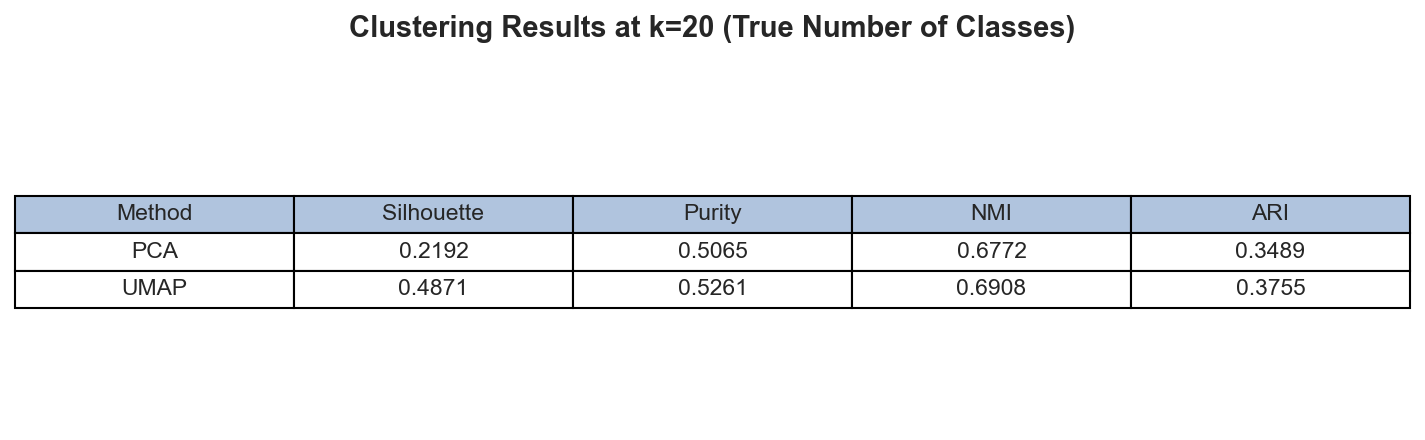
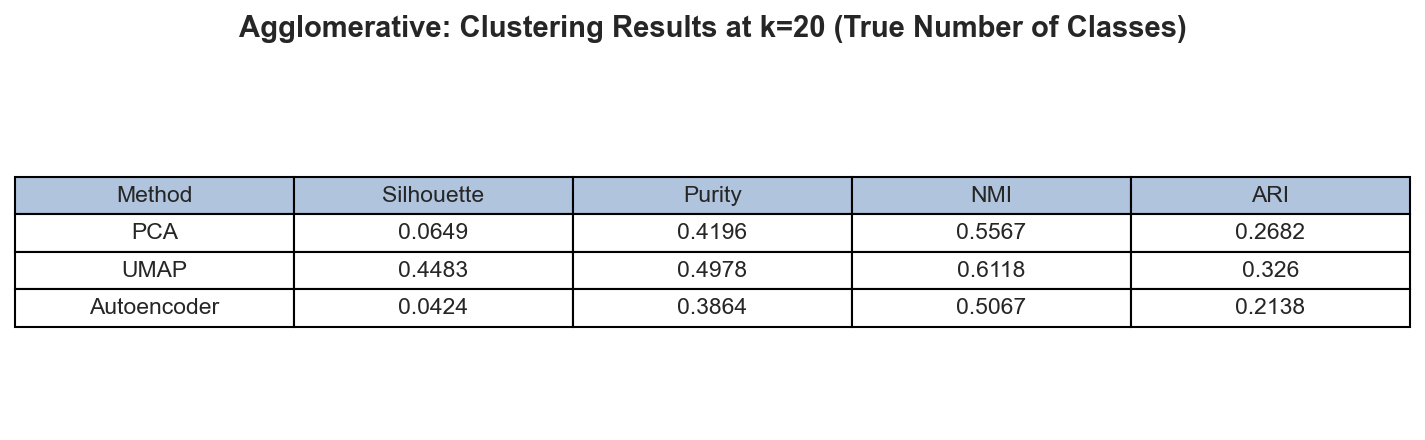
Refactor agglomerative clustering script to include Autoencoder comparison and update documentation; add new output plots and data summaries.

diff --git a/clustering/agglomerative/main.py b/clustering/agglomerative/main.py
@@ -1,9 +1,9 @@
 """
-Agglomerative Clustering Comparison: PCA vs UMAP
-=================================================
+Agglomerative Clustering Comparison: PCA vs UMAP vs Autoencoder
+================================================================
 
 This script performs agglomerative hierarchical clustering on the UMIST facial 
-recognition dataset using two unsupervised dimensionality reduction methods:
+recognition dataset using three unsupervised dimensionality reduction methods:
 
 1. PCA (Principal Component Analysis)
    - Linear dimensionality reduction
@@ -15,7 +15,12 @@ recognition dataset using two unsupervised dimensionality reduction methods:
    - Preserves local and global structure
    - Better at preserving cluster structure
 
-Both methods are fully UNSUPERVISED, making this a valid unsupervised learning
+3. Autoencoder (Convolutional)
+   - Non-linear dimensionality reduction
+   - Learns hierarchical features
+   - Can capture complex patterns
+
+All methods are fully UNSUPERVISED, making this a valid unsupervised learning
 pipeline for clustering evaluation.
 
 Evaluation Metrics:
@@ -37,14 +42,14 @@ import pandas as pd
 
 from sklearn.cluster import AgglomerativeClustering
 
-from data_preprocessing.pipeline import load_preprocessed_data_with_augmentation
-
-# Add parent directories to path
+# Add parent directories to path BEFORE imports
 sys.path.append(os.path.dirname(os.path.dirname(os.path.dirname(os.path.abspath(__file__)))))
 sys.path.insert(0, os.path.join(os.path.dirname(__file__), '..'))
 
+from data_preprocessing.pipeline import load_preprocessed_data_with_augmentation
 from dimensionality_reduction.pca import determine_pca_components, fit_and_transform_pca
 from dimensionality_reduction.umap_reduction import fit_and_transform_umap
+from dimensionality_reduction.autoencoding import train_autoencoder, reconstruct_images
 
 from shared import (
     evaluate_clustering, 
@@ -181,7 +186,7 @@ def main():
     data_path = os.path.join(project_root, "umist_cropped.mat")
     
     print("=" * 70)
-    print("AGGLOMERATIVE CLUSTERING: PCA vs UMAP (Unsupervised Comparison)")
+    print("AGGLOMERATIVE CLUSTERING: PCA vs UMAP vs Autoencoder (Unsupervised Comparison)")
     print("=" * 70)
     
     print("\nLoading preprocessed data...")
@@ -234,10 +239,41 @@ def main():
     X_combined_umap = np.vstack([X_train_umap, X_val_umap])
     
     # =========================================================================
-    # Step 3: Evaluate Dimensionality Reduction Quality
+    # Step 3: Autoencoder Dimensionality Reduction
     # =========================================================================
     print("\n" + "=" * 70)
-    print("STEP 3: Dimensionality Reduction Quality Evaluation")
+    print("STEP 3: Autoencoder Dimensionality Reduction")
+    print("=" * 70)
+    
+    # Use similar number of components as PCA for fair comparison
+    n_ae_components = n_pca_components
+    
+    # Train autoencoder
+    autoencoder, encoder, history = train_autoencoder(
+        X_train, X_val,
+        latent_dim=n_ae_components,
+        epochs=50,
+        batch_size=32
+    )
+    
+    # Get encoded representations
+    X_train_reshaped = X_train.reshape(-1, 112, 92, 1)
+    X_val_reshaped = X_val.reshape(-1, 112, 92, 1)
+    X_test_reshaped = X_test.reshape(-1, 112, 92, 1)
+    
+    X_train_ae = encoder.predict(X_train_reshaped, verbose=0)
+    X_val_ae = encoder.predict(X_val_reshaped, verbose=0)
+    X_test_ae = encoder.predict(X_test_reshaped, verbose=0)
+    
+    X_combined_ae = np.vstack([X_train_ae, X_val_ae])
+    
+    print(f"Autoencoder encoded shape: {X_combined_ae.shape}")
+    
+    # =========================================================================
+    # Step 4: Evaluate Dimensionality Reduction Quality
+    # =========================================================================
+    print("\n" + "=" * 70)
+    print("STEP 4: Dimensionality Reduction Quality Evaluation")
     print("=" * 70)
     
     # Evaluate PCA
@@ -260,21 +296,45 @@ def main():
     )
     print_dimred_metrics(umap_dimred_metrics)
     
+    # Evaluate Autoencoder
+    print("\nEvaluating Autoencoder...")
+    # Compute reconstruction error for autoencoder
+    X_combined_reshaped = X_combined.reshape(-1, 112, 92, 1)
+    X_combined_ae_recon = autoencoder.predict(X_combined_reshaped, verbose=0).reshape(X_combined.shape[0], -1)
+    ae_recon_error = np.mean((X_combined - X_combined_ae_recon) ** 2)
+    ae_relative_recon_error = ae_recon_error / np.var(X_combined)
+    
+    ae_dimred_metrics = evaluate_dimensionality_reduction(
+        X_combined, X_combined_ae,
+        n_neighbors=10,
+        pca_model=None,  # Autoencoder uses its own reconstruction
+        method_name="Autoencoder"
+    )
+    # Add reconstruction metrics manually
+    ae_dimred_metrics['reconstruction_error'] = ae_recon_error
+    ae_dimred_metrics['relative_recon_error'] = ae_relative_recon_error
+    
+    # Print autoencoder metrics
+    print(f"  Trustworthiness: {ae_dimred_metrics['trustworthiness']:.4f}")
+    print(f"  Reconstruction Error: {ae_recon_error:.4f}")
+    print(f"  Relative Recon Error: {ae_relative_recon_error*100:.2f}%")
+    print(f"  N Components: {ae_dimred_metrics['n_components']}")
+    
     # Summary comparison
     print("\n" + "-" * 70)
     print("Dimensionality Reduction Comparison:")
     print("-" * 70)
-    print(f"{'Metric':<25} {'PCA':<15} {'UMAP':<15}")
-    print("-" * 55)
-    print(f"{'Trustworthiness':<25} {pca_dimred_metrics['trustworthiness']:<15.4f} {umap_dimred_metrics['trustworthiness']:<15.4f}")
-    print(f"{'Reconstruction Error':<25} {pca_dimred_metrics['reconstruction_error']:<15.4f} {'N/A':<15}")
-    print(f"{'Relative Recon Error':<25} {pca_dimred_metrics['relative_recon_error']*100:<14.2f}% {'N/A':<15}")
+    print(f"{'Metric':<25} {'PCA':<15} {'UMAP':<15} {'Autoencoder':<15}")
+    print("-" * 70)
+    print(f"{'Trustworthiness':<25} {pca_dimred_metrics['trustworthiness']:<15.4f} {umap_dimred_metrics['trustworthiness']:<15.4f} {ae_dimred_metrics['trustworthiness']:<15.4f}")
+    print(f"{'Reconstruction Error':<25} {pca_dimred_metrics['reconstruction_error']:<15.4f} {'N/A':<15} {ae_dimred_metrics['reconstruction_error']:<15.4f}")
+    print(f"{'Relative Recon Error':<25} {pca_dimred_metrics['relative_recon_error']*100:<14.2f}% {'N/A':<15} {ae_dimred_metrics['relative_recon_error']*100:<14.2f}%")
     
     # =========================================================================
-    # Step 4: Agglomerative Clustering
+    # Step 5: Agglomerative Clustering
     # =========================================================================
     print("\n" + "=" * 70)
-    print("STEP 4: Agglomerative Clustering")
+    print("STEP 5: Agglomerative Clustering")
     print("=" * 70)
     
     # Define k values to test
@@ -297,23 +357,30 @@ def main():
         linkage_method="ward", method_name="UMAP Features"
     )
     
+    # Clustering on Autoencoder features
+    results_ae = run_agglomerative_clustering(
+        X_combined_ae, y_combined, k_values,
+        linkage_method="ward", method_name="Autoencoder Features"
+    )
+    
     # Store results
     results_dict = {
         "PCA": results_pca,
         "UMAP": results_umap,
+        "Autoencoder": results_ae,
     }
     
     # =========================================================================
-    # Step 5: Visualizations
+    # Step 6: Visualizations
     # =========================================================================
     print("\n" + "=" * 70)
-    print("STEP 5: Visualizations")
+    print("STEP 6: Visualizations")
     print("=" * 70)
     
     # Dimensionality reduction comparison
     print("\nGenerating dimensionality reduction comparison plot...")
     plot_dimred_comparison(
-        pca_dimred_metrics, umap_dimred_metrics,
+        pca_dimred_metrics, umap_dimred_metrics, ae_dimred_metrics,
         save_path=os.path.join(output_dir, "dimred_comparison.png"),
         algorithm_name="Agglomerative"
     )
@@ -336,6 +403,15 @@ def main():
         linkage_method='ward',
         distance_metric='euclidean',
         save_path=os.path.join(output_dir, "dendrogram_umap.png")
+    )
+    
+    plot_dendrogram(
+        X_combined_ae, y_combined,
+        n_clusters=n_classes,
+        title="Dendrogram - Autoencoder Features",
+        linkage_method='ward',
+        distance_metric='euclidean',
+        save_path=os.path.join(output_dir, "dendrogram_autoencoder.png")
     )
     
     # Metric comparison
@@ -366,6 +442,14 @@ def main():
     agg_umap = AgglomerativeClustering(n_clusters=n_classes, linkage="ward")
     labels_umap = agg_umap.fit_predict(X_combined_umap)
     
+    agg_ae = AgglomerativeClustering(n_clusters=n_classes, linkage="ward")
+    labels_ae = agg_ae.fit_predict(X_combined_ae)
+    
+    # For autoencoder 2D, use UMAP on the encoded features
+    from sklearn.decomposition import PCA as skPCA
+    pca_2d_ae = skPCA(n_components=2)
+    X_combined_ae_2d = pca_2d_ae.fit_transform(X_combined_ae)
+    
     plot_clustering_2d(
         X_combined_pca[:, :2], labels_pca, y_combined,
         title=f"Clustering - PCA Features (k={n_classes})",
@@ -380,6 +464,13 @@ def main():
         algorithm_name="Agglomerative"
     )
     
+    plot_clustering_2d(
+        X_combined_ae_2d, labels_ae, y_combined,
+        title=f"Clustering - Autoencoder Features (k={n_classes})",
+        save_path=os.path.join(output_dir, "clustering_autoencoder_2d.png"),
+        algorithm_name="Agglomerative"
+    )
+    
     # Summary table
     print("\nGenerating summary table...")
     summary_df = plot_summary_table(
@@ -389,14 +480,15 @@ def main():
     )
     
     # =========================================================================
-    # Step 6: Summary
+    # Step 7: Summary
     # =========================================================================
     print_summary(results_dict, n_classes)
     
     # Save results to CSV
     results_pca["method"] = "PCA"
     results_umap["method"] = "UMAP"
-    all_results = pd.concat([results_pca, results_umap], ignore_index=True)
+    results_ae["method"] = "Autoencoder"
+    all_results = pd.concat([results_pca, results_umap, results_ae], ignore_index=True)
     results_path = os.path.join(output_dir, "clustering_results.csv")
     all_results.to_csv(results_path, index=False)
     print(f"\n✓ Results saved to {results_path}")

diff --git a/clustering/shared/plots.py b/clustering/shared/plots.py
@@ -190,7 +190,7 @@ def plot_summary_table(results_dict, n_classes, save_path=None, algorithm_name="
     return summary_df
 
 
-def plot_dimred_comparison(pca_metrics, umap_metrics, save_path=None, algorithm_name=""):
+def plot_dimred_comparison(pca_metrics, umap_metrics, ae_metrics=None, save_path=None, algorithm_name=""):
     """
     Plot comparison of dimensionality reduction quality metrics.
     
@@ -200,23 +200,30 @@ def plot_dimred_comparison(pca_metrics, umap_metrics, save_path=None, algorithm_
         Metrics from PCA dimensionality reduction
     umap_metrics : dict
         Metrics from UMAP dimensionality reduction
+    ae_metrics : dict, optional
+        Metrics from Autoencoder dimensionality reduction
     save_path : str, optional
         Path to save the figure
     algorithm_name : str, optional
         Name of clustering algorithm (e.g., "K-Means", "Agglomerative")
     """
-    fig, axes = plt.subplots(1, 2, figsize=(12, 5))
+    fig, axes = plt.subplots(1, 2, figsize=(14, 5))
     
     # Plot 1: Trustworthiness comparison (bar chart)
-    methods = ['PCA', 'UMAP']
-    trust_values = [pca_metrics['trustworthiness'], umap_metrics['trustworthiness']]
-    colors = ['steelblue', 'darkorange']
+    if ae_metrics is not None:
+        methods = ['PCA', 'UMAP', 'Autoencoder']
+        trust_values = [pca_metrics['trustworthiness'], umap_metrics['trustworthiness'], ae_metrics['trustworthiness']]
+        colors = ['steelblue', 'darkorange', 'green']
+    else:
+        methods = ['PCA', 'UMAP']
+        trust_values = [pca_metrics['trustworthiness'], umap_metrics['trustworthiness']]
+        colors = ['steelblue', 'darkorange']
     
     bars = axes[0].bar(methods, trust_values, color=colors, edgecolor='black', linewidth=1.2)
     axes[0].set_ylabel('Trustworthiness Score', fontsize=12)
     axes[0].set_title('Trustworthiness\n(Local Neighborhood Preservation)', fontsize=12, fontweight='bold')
     axes[0].set_ylim(0, 1.05)
-    axes[0].axhline(y=1.0, color='green', linestyle='--', alpha=0.5, label='Perfect (1.0)')
+    axes[0].axhline(y=1.0, color='gray', linestyle='--', alpha=0.5, label='Perfect (1.0)')
     
     # Add value labels on bars
     for bar, val in zip(bars, trust_values):
@@ -229,20 +236,31 @@ def plot_dimred_comparison(pca_metrics, umap_metrics, save_path=None, algorithm_
     # Plot 2: Summary metrics table
     axes[1].axis('off')
     
-    table_data = [
-        ['Metric', 'PCA', 'UMAP'],
-        ['Trustworthiness', f"{pca_metrics['trustworthiness']:.4f}", f"{umap_metrics['trustworthiness']:.4f}"],
-        ['Reconstruction Error', f"{pca_metrics['reconstruction_error']:.4f}", 'N/A'],
-        ['Relative Recon Error', f"{pca_metrics['relative_recon_error']*100:.2f}%", 'N/A'],
-        ['Components', str(pca_metrics['n_components']), str(umap_metrics['n_components'])],
-    ]
+    if ae_metrics is not None:
+        table_data = [
+            ['Metric', 'PCA', 'UMAP', 'Autoencoder'],
+            ['Trustworthiness', f"{pca_metrics['trustworthiness']:.4f}", f"{umap_metrics['trustworthiness']:.4f}", f"{ae_metrics['trustworthiness']:.4f}"],
+            ['Reconstruction Error', f"{pca_metrics['reconstruction_error']:.4f}", 'N/A', f"{ae_metrics.get('reconstruction_error', 'N/A'):.4f}" if isinstance(ae_metrics.get('reconstruction_error'), (int, float)) else 'N/A'],
+            ['Relative Recon Error', f"{pca_metrics['relative_recon_error']*100:.2f}%", 'N/A', f"{ae_metrics.get('relative_recon_error', 0)*100:.2f}%" if isinstance(ae_metrics.get('relative_recon_error'), (int, float)) else 'N/A'],
+            ['Components', str(pca_metrics['n_components']), str(umap_metrics['n_components']), str(ae_metrics['n_components'])],
+        ]
+        col_colors = ['lightsteelblue'] * 4
+    else:
+        table_data = [
+            ['Metric', 'PCA', 'UMAP'],
+            ['Trustworthiness', f"{pca_metrics['trustworthiness']:.4f}", f"{umap_metrics['trustworthiness']:.4f}"],
+            ['Reconstruction Error', f"{pca_metrics['reconstruction_error']:.4f}", 'N/A'],
+            ['Relative Recon Error', f"{pca_metrics['relative_recon_error']*100:.2f}%", 'N/A'],
+            ['Components', str(pca_metrics['n_components']), str(umap_metrics['n_components'])],
+        ]
+        col_colors = ['lightsteelblue'] * 3
     
     table = axes[1].table(
         cellText=table_data[1:],
         colLabels=table_data[0],
         cellLoc='center',
         loc='center',
-        colColours=['lightsteelblue'] * 3
+        colColours=col_colors
     )
     table.auto_set_font_size(False)
     table.set_fontsize(11)
